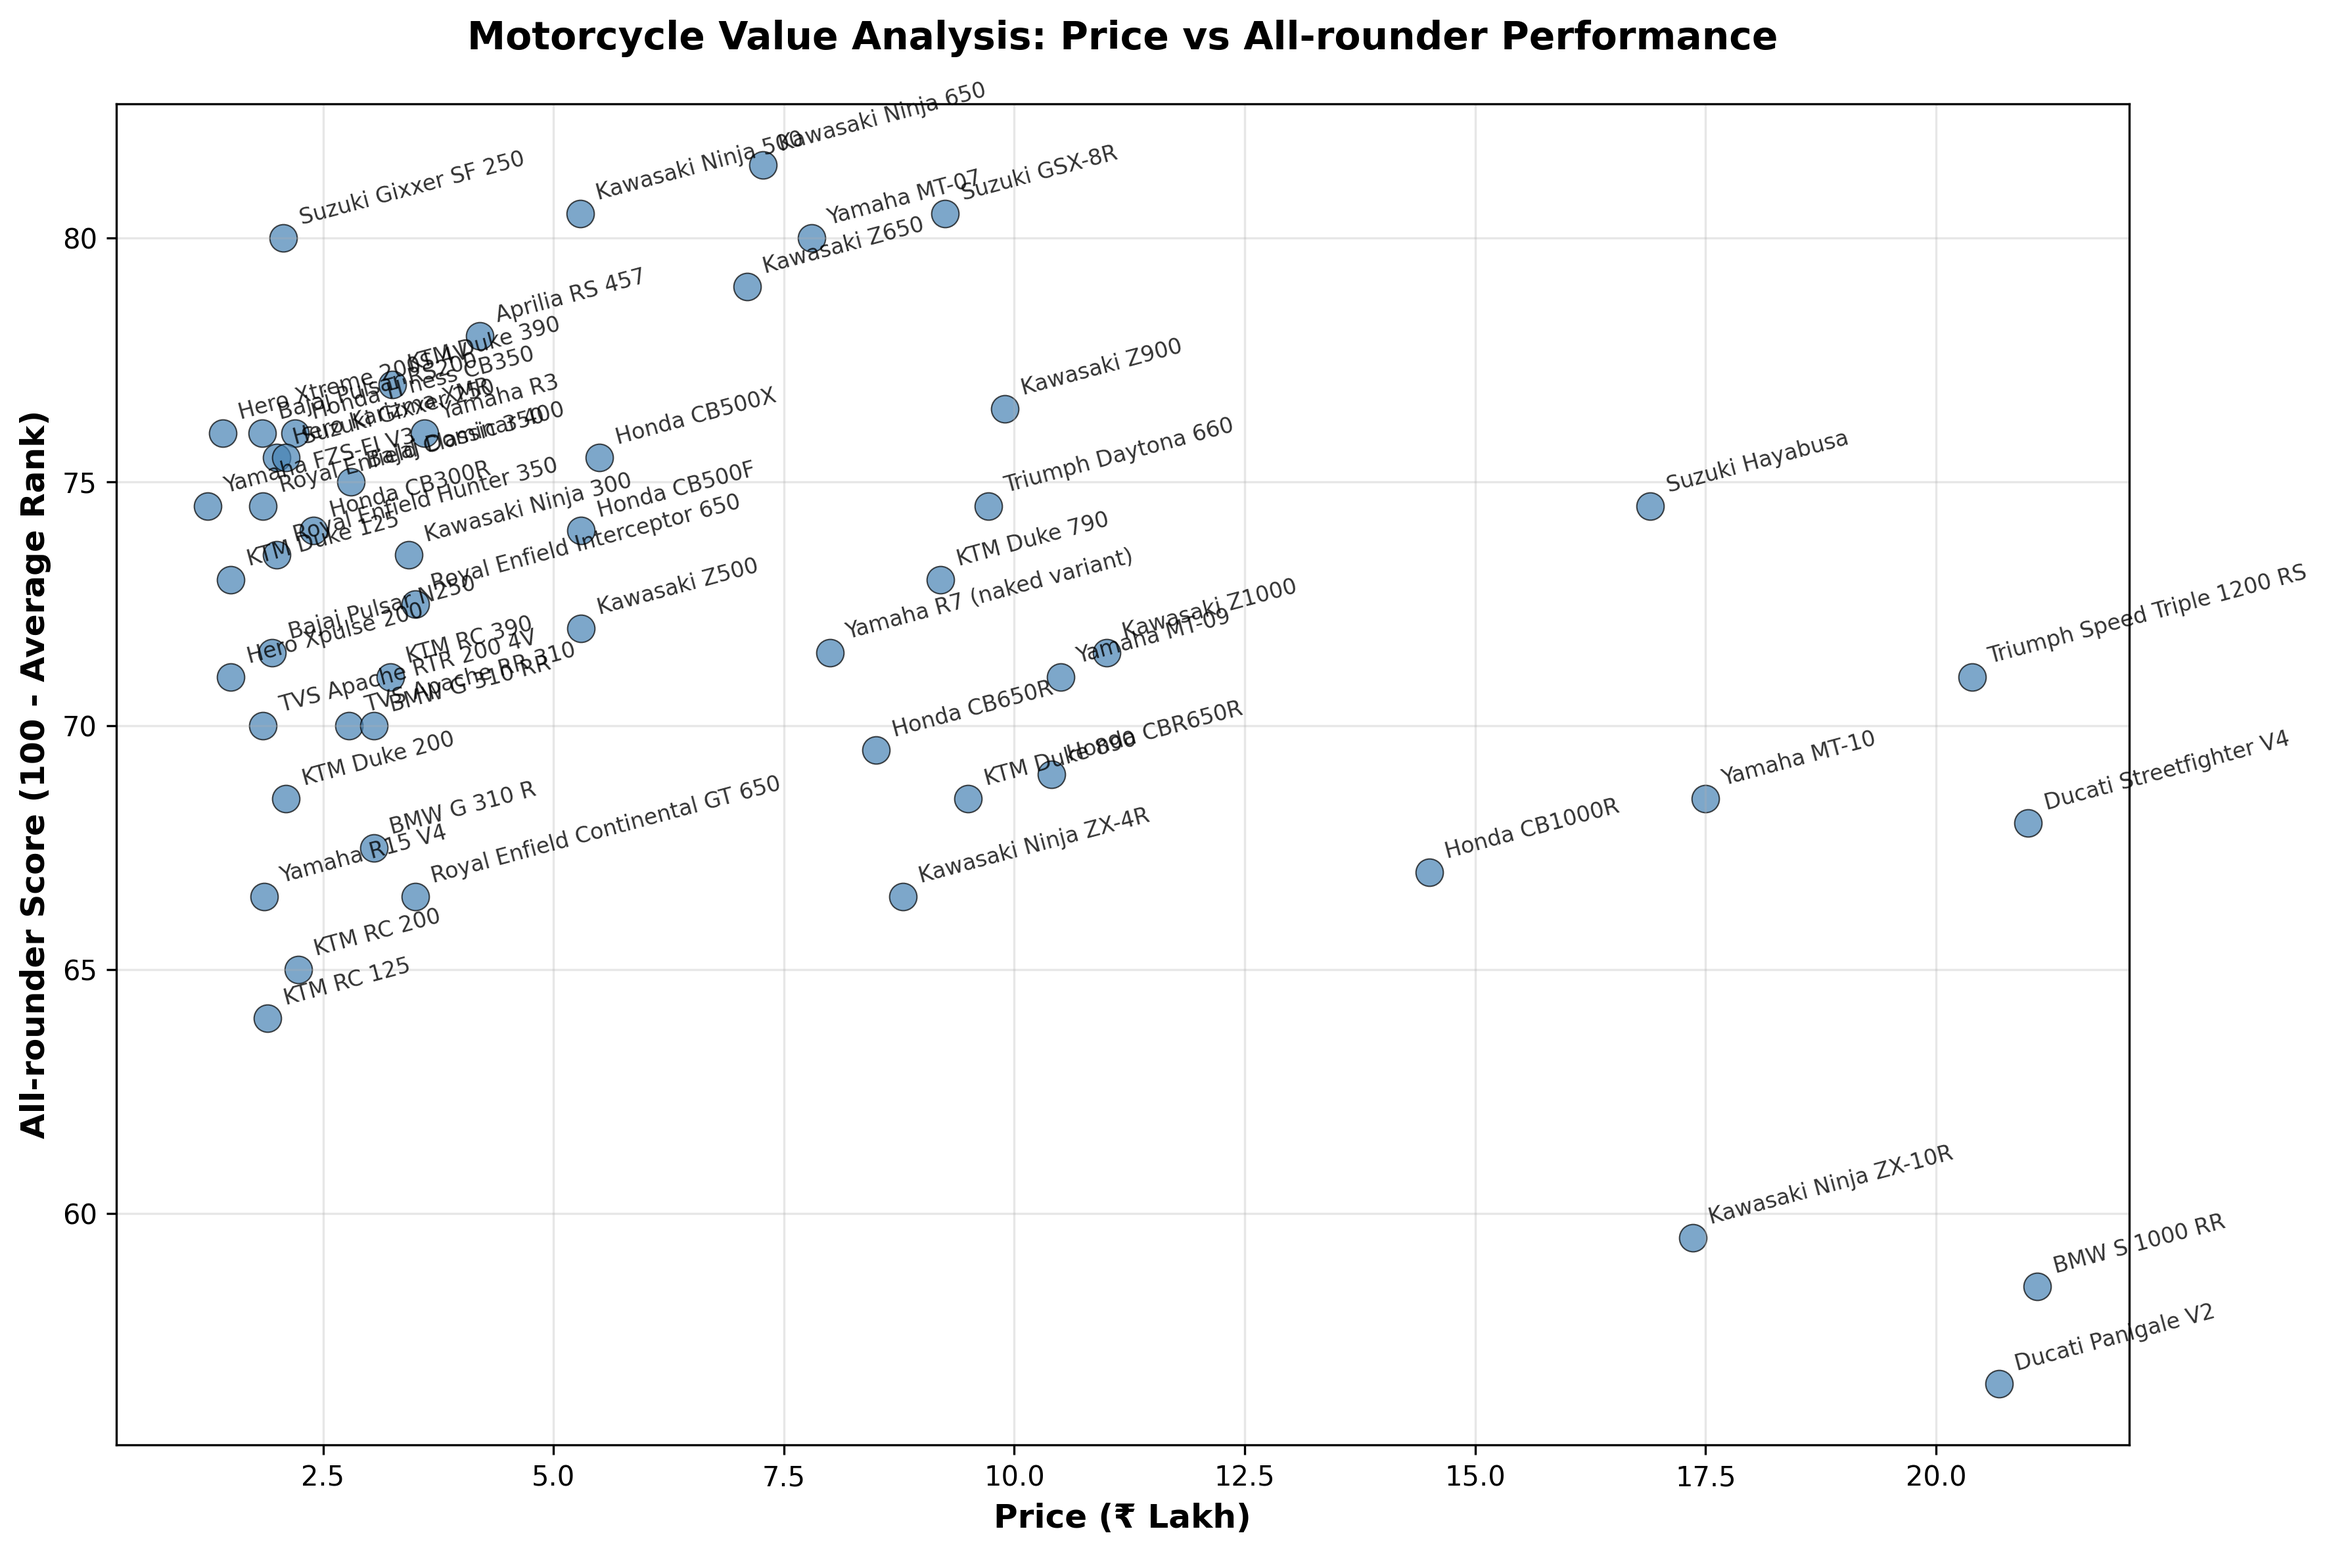
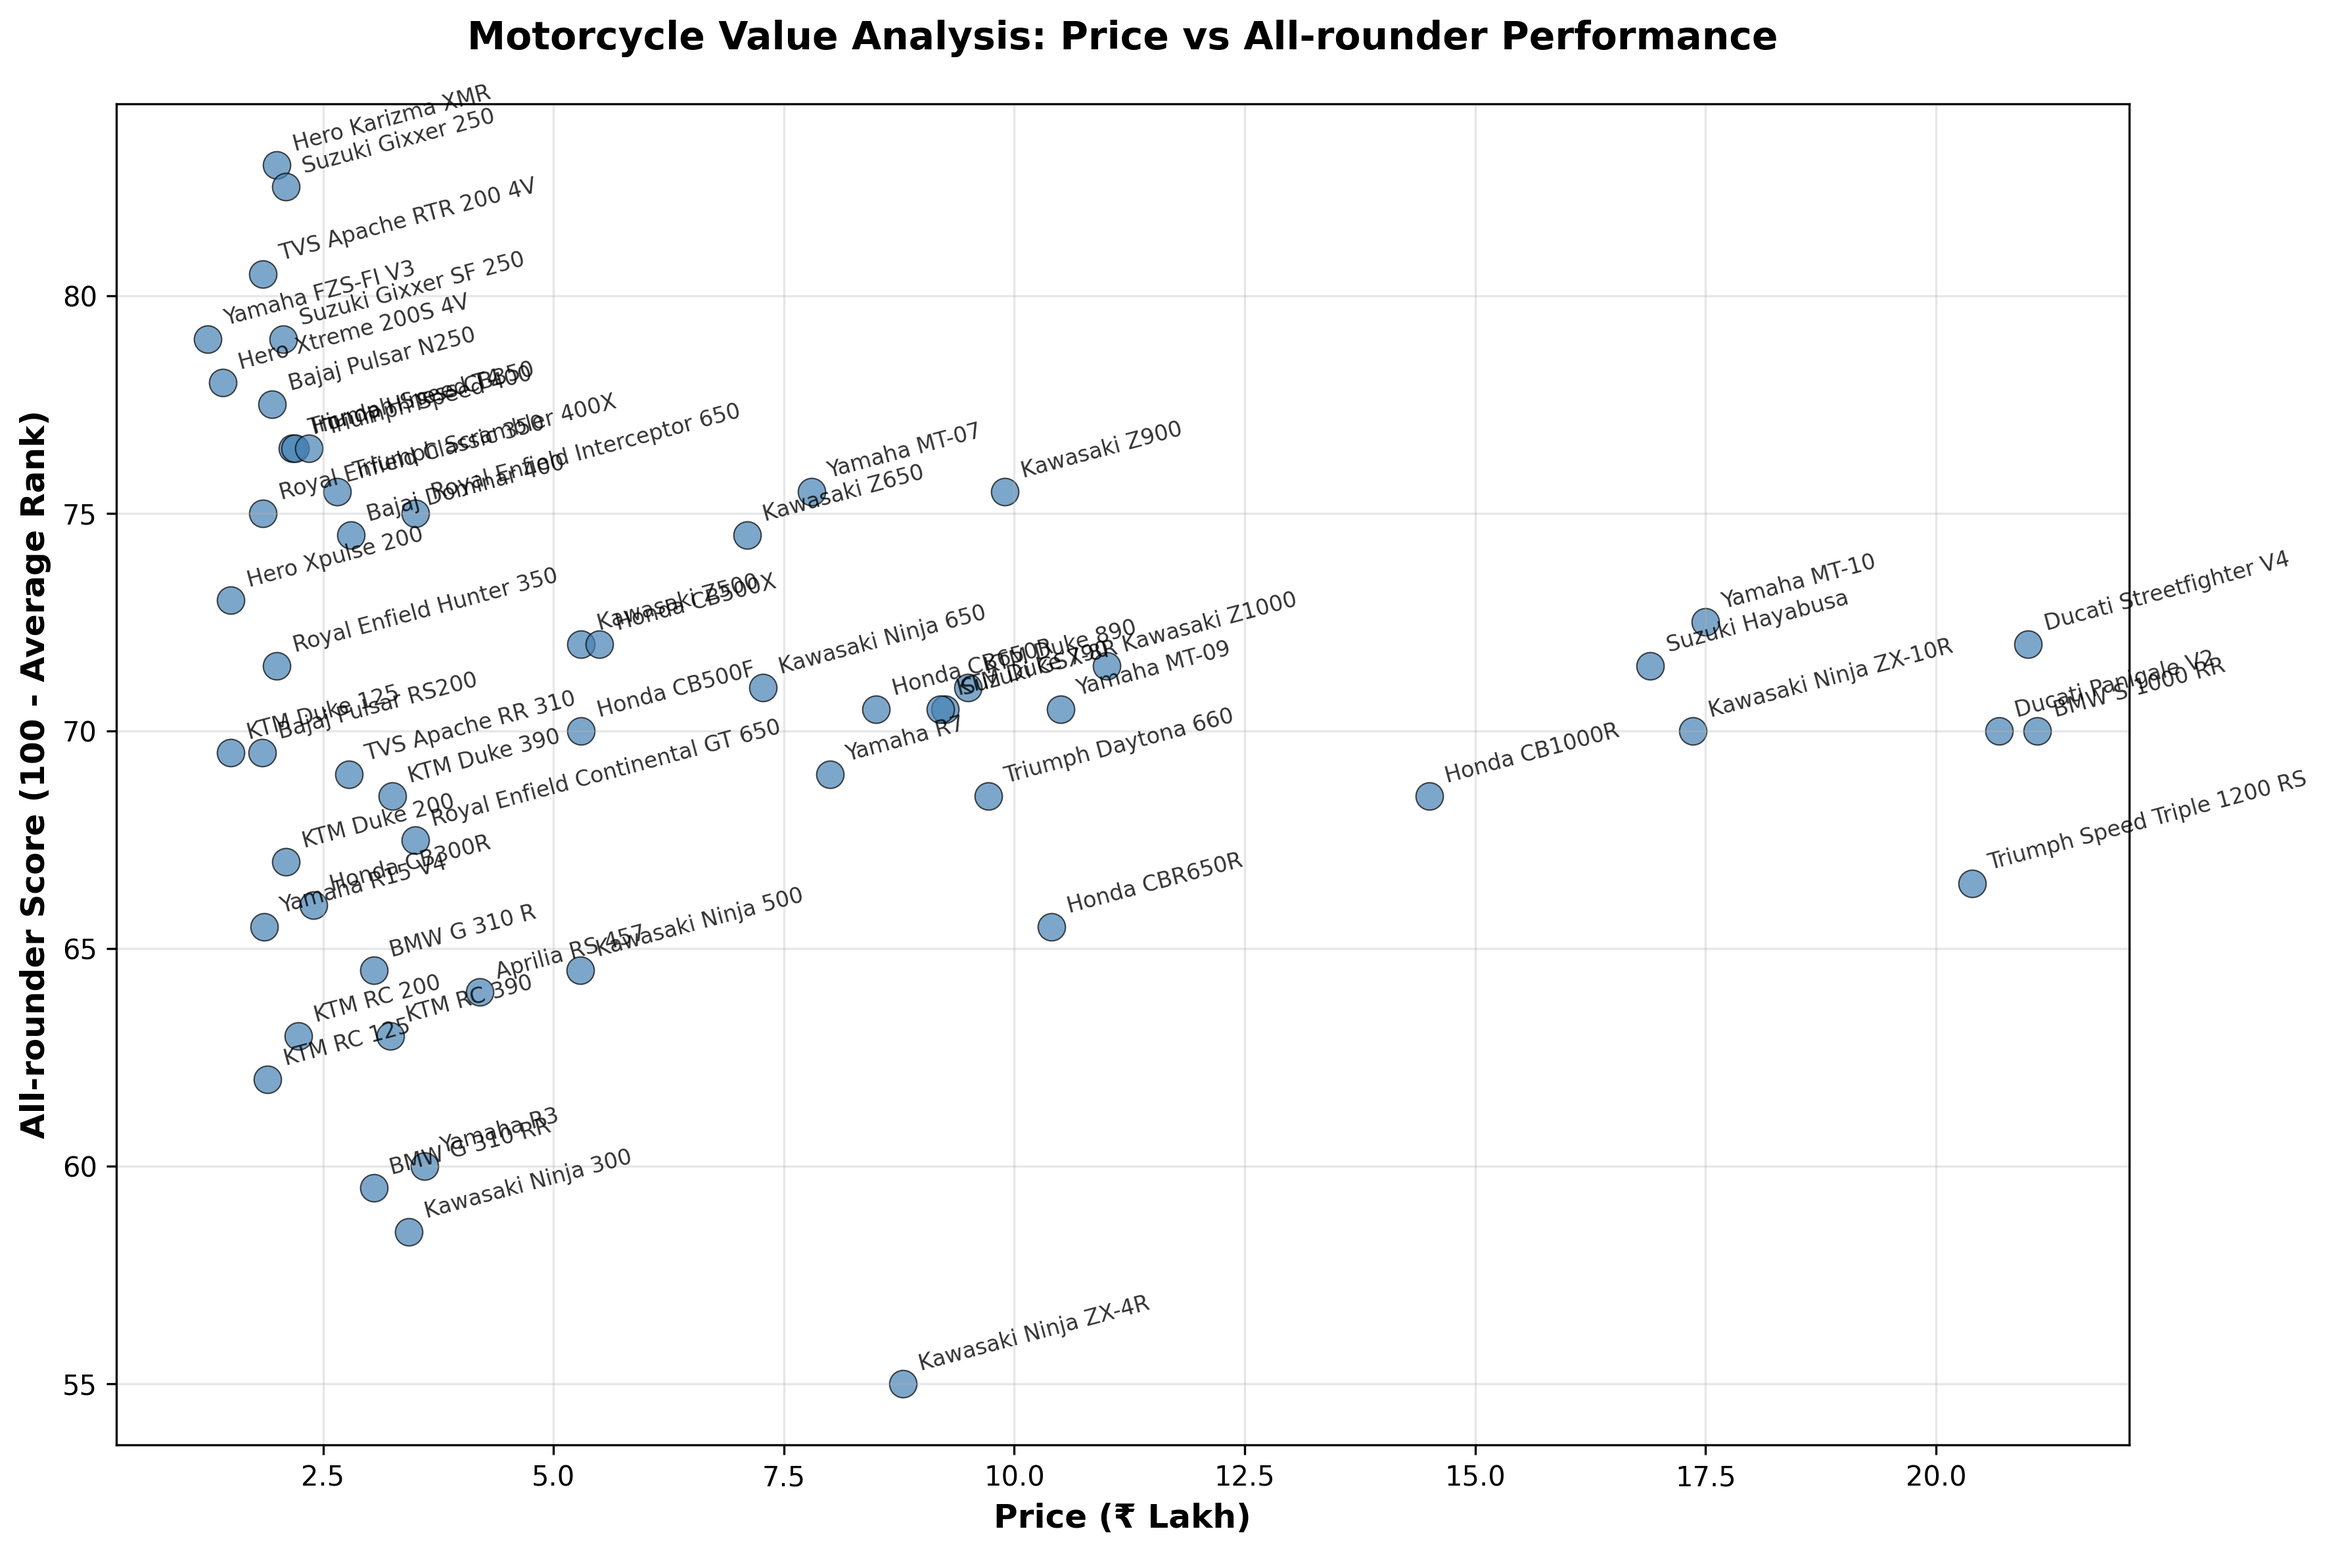
auto updated ⚡

diff --git a/main.py b/main.py
@@ -2,137 +2,137 @@ import pandas as pd
 import numpy as np
 import matplotlib.pyplot as plt
 
-# Re-evaluated bike scores (rider + pillion POV)
-# File: bike_scores_eval.py
-
 bikes = [
-    ("Hero Xtreme 200S 4V", 1.41, "Entry-level 150–200cc"),
-    ("Bajaj Pulsar RS200", 1.84, "Entry-level 150–200cc"),
-    ("Yamaha R15 V4", 1.86, "Entry-level 150–200cc"),
-    ("Suzuki Gixxer SF 250", 2.07, "200-250cc Single"),
-    ("Hero Karizma XMR", 2.00, "200-250cc Single"),
-    ("TVS Apache RR 310", 2.78, "300-400cc Single"),
-    ("BMW G 310 RR", 3.05, "300-400cc Single"),
-    ("KTM RC 125", 1.90, "Entry-level 150–200cc"),
-    ("KTM RC 200", 2.23, "Entry-level 150–200cc"),
-    ("KTM RC 390", 3.23, "300-400cc Single"),
-    ("Kawasaki Ninja 300", 3.43, "300–500cc twins"),
-    ("Yamaha R3", 3.60, "300–500cc twins"),
-    ("Aprilia RS 457", 4.20, "300–500cc twins"),
-    ("Kawasaki Ninja 500", 5.29, "300–500cc twins"),
-    ("Kawasaki Ninja 650", 7.27, "Mid-weight"),
-    ("Kawasaki Ninja ZX-4R", 8.79, "Mid-weight"),
-    ("Suzuki GSX-8R", 9.25, "Mid-weight"),
-    ("Triumph Daytona 660", 9.72, "Mid-weight"),
-    ("Honda CBR650R", 10.40, "Mid-weight"),
-    ("Kawasaki Ninja ZX-10R", 17.36, "Superbikes"),
-    ("Suzuki Hayabusa", 16.90, "Superbikes"),
-    ("Triumph Speed Triple 1200 RS", 20.39, "Superbikes"),
-    ("Ducati Panigale V2", 20.68, "Superbikes"),
-    ("BMW S 1000 RR", 21.10, "Superbikes"),
-    # non faired
-    ("KTM Duke 125", 1.50, "Entry-level 125–200cc"),
-    ("KTM Duke 200", 2.10, "Entry-level 125–200cc"),
-    ("TVS Apache RTR 200 4V", 1.85, "Entry-level 150–200cc"),
-    ("Hero Xpulse 200", 1.50, "Entry-level 150–200cc"),
-    ("Bajaj Pulsar N250", 1.95, "Entry-level 150–250cc"),
-    ("Yamaha FZS-FI V3", 1.25, "Entry-level 150–200cc"),
-    ("Suzuki Gixxer 250", 2.10, "200-250cc Single"),
-    ("Honda CB300R", 2.40, "300-400cc Single"),
-    ("KTM Duke 390", 3.25, "300–400cc Single"),
-    ("Bajaj Dominar 400", 2.80, "300–400cc Single"),
-    ("BMW G 310 R", 3.05, "300-400cc Single"),
-    ("Kawasaki Z500", 5.30, "300–500cc Twins"),
-    ("Royal Enfield Interceptor 650", 3.50, "300–500cc Twins"),
-    ("Royal Enfield Continental GT 650", 3.50, "300–500cc Twins"),
-    ("Honda CB500F", 5.30, "300–500cc Twins"),
-    ("Honda CB500X", 5.50, "300–500cc Twins"),
-    ("Honda H'ness CB350", 2.20, "300-400cc Single"),
-    ("Royal Enfield Hunter 350", 2.00, "300-400cc Single"),
-    ("Royal Enfield Classic 350", 1.85, "300-400cc Single"),
-    ("Kawasaki Z650", 7.10, "Mid-weight 600–800cc"),
-    ("Honda CB650R", 8.50, "Mid-weight 600–800cc"),
-    ("Yamaha MT-07", 7.80, "Mid-weight 600–800cc"),
-    ("Yamaha R7 (naked variant)", 8.00, "Mid-weight 600–800cc"),
-    ("KTM Duke 790", 9.20, "Mid-weight 600–800cc"),
-    ("KTM Duke 890", 9.50, "Mid-weight 600–800cc"),
-    ("Kawasaki Z900", 9.90, "Superbikes 900cc+"),
-    ("Kawasaki Z1000", 11.00, "Superbikes 900cc+"),
-    ("Yamaha MT-09", 10.50, "Superbikes 900cc+"),
-    ("Yamaha MT-10", 17.50, "Superbikes 900cc+"),
-    ("Honda CB1000R", 14.50, "Superbikes 900cc+"),
-    ("Ducati Streetfighter V4", 21.00, "Superbikes 900cc+"),
+    # 125-200cc Segment
+    ("Yamaha FZS-FI V3", 1.25, "125-200cc"),
+    ("Hero Xtreme 200S 4V", 1.41, "125-200cc"),
+    ("Hero Xpulse 200", 1.50, "125-200cc"),
+    ("KTM Duke 125", 1.50, "125-200cc"),
+    ("Bajaj Pulsar RS200", 1.84, "125-200cc"),
+    ("TVS Apache RTR 200 4V", 1.85, "125-200cc"),
+    ("Yamaha R15 V4", 1.86, "125-200cc"),
+    ("KTM RC 125", 1.90, "125-200cc"),
+    ("KTM Duke 200", 2.10, "125-200cc"),
+    ("KTM RC 200", 2.23, "125-200cc"),
+    # 201-400cc Segment
+    ("Royal Enfield Classic 350", 1.85, "201-400cc"),
+    ("Bajaj Pulsar N250", 1.95, "201-400cc"),
+    ("Hero Karizma XMR", 2.00, "201-400cc"),
+    ("Royal Enfield Hunter 350", 2.00, "201-400cc"),
+    ("Suzuki Gixxer SF 250", 2.07, "201-400cc"),
+    ("Suzuki Gixxer 250", 2.10, "201-400cc"),
+    ("Honda H'ness CB350", 2.20, "201-400cc"),
+    ("Honda CB300R", 2.40, "201-400cc"),
+    ("TVS Apache RR 310", 2.78, "201-400cc"),
+    ("Bajaj Dominar 400", 2.80, "201-400cc"),
+    ("BMW G 310 RR", 3.05, "201-400cc"),
+    ("BMW G 310 R", 3.05, "201-400cc"),
+    ("KTM RC 390", 3.23, "201-400cc"),
+    ("KTM Duke 390", 3.25, "201-400cc"),
+    ("Kawasaki Ninja 300", 3.43, "201-400cc"),
+    ("Yamaha R3", 3.60, "201-400cc"),
+    ("Triumph Speed T4", 2.17, "201-400cc"),
+    ("Triumph Speed 400", 2.35, "201-400cc"),
+    ("Triumph Scrambler 400X", 2.65, "201-400cc"),
+    ("Kawasaki Ninja ZX-4R", 8.79, "201-400cc"),
+    # 401-600cc Segment
+    ("Aprilia RS 457", 4.20, "401-600cc"),
+    ("Kawasaki Ninja 500", 5.29, "401-600cc"),
+    ("Honda CB500F", 5.30, "401-600cc"),
+    ("Kawasaki Z500", 5.30, "401-600cc"),
+    ("Honda CB500X", 5.50, "401-600cc"),
+    # 601-800cc Segment
+    ("Royal Enfield Interceptor 650", 3.50, "601-800cc"),
+    ("Royal Enfield Continental GT 650", 3.50, "601-800cc"),
+    ("Kawasaki Z650", 7.10, "601-800cc"),
+    ("Kawasaki Ninja 650", 7.27, "601-800cc"),
+    ("Yamaha MT-07", 7.80, "601-800cc"),
+    ("Yamaha R7", 8.00, "601-800cc"),
+    ("Honda CB650R", 8.50, "601-800cc"),
+    ("KTM Duke 790", 9.20, "601-800cc"),
+    ("Suzuki GSX-8R", 9.25, "601-800cc"),
+    ("KTM Duke 890", 9.50, "601-800cc"),
+    ("Triumph Daytona 660", 9.72, "601-800cc"),
+    ("Honda CBR650R", 10.40, "601-800cc"),
+    # 800cc+ Superbikes
+    ("Kawasaki Z900", 9.90, "800cc+"),
+    ("Yamaha MT-09", 10.50, "800cc+"),
+    ("Kawasaki Z1000", 11.00, "800cc+"),
+    ("Honda CB1000R", 14.50, "800cc+"),
+    ("Suzuki Hayabusa", 16.90, "800cc+"),
+    ("Kawasaki Ninja ZX-10R", 17.36, "800cc+"),
+    ("Yamaha MT-10", 17.50, "800cc+"),
+    ("Triumph Speed Triple 1200 RS", 20.39, "800cc+"),
+    ("Ducati Panigale V2", 20.68, "800cc+"),
+    ("Ducati Streetfighter V4", 21.00, "800cc+"),
+    ("BMW S 1000 RR", 21.10, "800cc+"),
 ]
 
 # Re-evaluated scores (rider + pillion POV). All values on 1-10 scale.
 scores = {
-    "Hero Xtreme 200S 4V": [4.5, 7.0, 8.0, 5.5, 6.5, 4.0],
-    "Bajaj Pulsar RS200": [5.5, 6.5, 7.5, 6.5, 5.5, 5.0],
-    "Yamaha R15 V4": [4.0, 6.0, 8.0, 5.5, 4.0, 3.5],
-
-    "Suzuki Gixxer SF 250": [6.0, 7.0, 7.0, 6.5, 6.5, 6.0],
-    "Hero Karizma XMR": [5.5, 7.0, 6.5, 6.5, 6.0, 6.0],
-
-    "TVS Apache RR 310": [6.5, 6.0, 6.5, 7.0, 5.5, 6.0],
-    "BMW G 310 RR": [6.0, 6.5, 6.5, 6.5, 6.0, 6.0],
-
-    "KTM RC 125": [3.5, 5.5, 7.0, 5.0, 5.0, 3.0],
-    "KTM RC 200": [5.0, 5.5, 7.0, 6.0, 5.0, 4.5],
-    "KTM RC 390": [7.5, 5.5, 6.5, 7.5, 4.5, 6.5],
-
-    "Kawasaki Ninja 300": [6.5, 7.0, 7.0, 7.0, 6.0, 6.5],
-    "Yamaha R3": [7.0, 7.0, 7.0, 7.5, 6.0, 7.5],
-    "Aprilia RS 457": [8.0, 7.0, 6.5, 8.0, 5.5, 8.0],
-    "Kawasaki Ninja 500": [7.5, 7.5, 7.5, 7.5, 6.5, 7.5],
-
-    "Kawasaki Ninja 650": [8.0, 8.0, 7.5, 8.5, 7.0, 7.5],
-    "Kawasaki Ninja ZX-4R": [8.5, 4.5, 6.0, 8.5, 4.5, 9.0],
-    "Suzuki GSX-8R": [8.5, 8.0, 7.5, 8.5, 7.5, 8.5],
-    "Triumph Daytona 660": [8.5, 6.0, 6.5, 8.5, 6.0, 8.5],
-    "Honda CBR650R": [8.0, 7.0, 6.5, 8.0, 6.0, 7.5],
-
-    "Kawasaki Ninja ZX-10R": [9.5, 4.0, 5.0, 9.0, 3.5, 8.5],
-    "Suzuki Hayabusa": [9.0, 7.5, 6.5, 9.5, 6.5, 8.0],
-    "Triumph Speed Triple 1200 RS": [9.0, 6.5, 6.0, 9.0, 5.5, 8.5],
-    "Ducati Panigale V2": [9.0, 4.0, 5.5, 9.0, 3.5, 8.5],
-    "BMW S 1000 RR": [9.5, 4.0, 5.0, 9.5, 3.5, 8.5],
-
-    # Non-faired / naked
-    "KTM Duke 125": [4.5, 7.0, 7.5, 5.5, 3.5, 5.0],
-    "KTM Duke 200": [5.5, 6.5, 7.0, 6.0, 3.5, 6.0],
-    "TVS Apache RTR 200 4V": [5.0, 6.5, 6.5, 6.0, 4.0, 5.5],
-    "Hero Xpulse 200": [4.0, 7.5, 6.5, 5.5, 3.0, 4.5],
-    "Bajaj Pulsar N250": [5.5, 7.0, 7.0, 6.0, 4.5, 5.5],
-    "Yamaha FZS-FI V3": [4.5, 6.5, 7.0, 5.5, 4.5, 5.0],
-
-    "Suzuki Gixxer 250": [6.0, 7.0, 7.0, 6.5, 5.0, 6.0],
-    "Honda CB300R": [6.5, 7.0, 7.0, 6.5, 4.5, 6.0],
-    "KTM Duke 390": [8.0, 6.5, 6.5, 7.5, 4.5, 8.0],
-    "Bajaj Dominar 400": [7.0, 7.0, 6.5, 7.0, 5.0, 7.0],
-    "BMW G 310 R": [6.0, 7.0, 6.5, 6.5, 4.5, 6.0],
-
-    "Kawasaki Z500": [7.5, 7.0, 7.0, 7.5, 5.5, 7.5],
-    "Royal Enfield Interceptor 650": [6.5, 7.5, 6.0, 7.0, 6.5, 6.5],
-    "Royal Enfield Continental GT 650": [6.0, 7.0, 6.0, 6.5, 6.0, 6.0],
-    "Honda CB500F": [7.5, 7.5, 6.5, 7.5, 6.0, 7.5],
-    "Honda CB500X": [7.0, 8.0, 7.0, 7.5, 6.5, 7.0],
-    "Honda H'ness CB350": [6.0, 7.5, 6.5, 6.5, 5.5, 6.0],
-    "Royal Enfield Hunter 350": [5.5, 7.0, 6.5, 6.0, 6.0, 5.5],
-    "Royal Enfield Classic 350": [5.5, 6.5, 6.0, 6.0, 6.5, 5.5],
-
-    "Kawasaki Z650": [8.0, 7.5, 7.0, 8.0, 6.0, 8.0],
-    "Honda CB650R": [7.5, 7.5, 7.0, 7.5, 5.5, 7.5],
-    "Yamaha MT-07": [8.5, 7.5, 7.0, 8.0, 6.0, 8.5],
-    "Yamaha R7 (naked variant)": [8.0, 7.0, 7.0, 7.5, 5.0, 8.0],
-    "KTM Duke 790": [8.5, 7.0, 6.5, 8.0, 4.5, 8.5],
-    "KTM Duke 890": [8.5, 7.0, 6.5, 8.0, 4.5, 8.5],
-
-    "Kawasaki Z900": [9.0, 7.5, 6.5, 8.5, 4.5, 9.0],
-    "Kawasaki Z1000": [9.0, 7.0, 6.0, 8.5, 4.0, 9.0],
-    "Yamaha MT-09": [9.0, 7.0, 6.0, 8.5, 4.0, 9.0],
-    "Yamaha MT-10": [9.5, 6.5, 5.5, 9.0, 4.0, 9.0],
-    "Honda CB1000R": [9.0, 7.0, 6.0, 8.5, 4.0, 8.5],
-    "Ducati Streetfighter V4": [9.5, 6.0, 5.5, 9.5, 3.5, 9.5],
+    # 125-200cc Segment
+    "Yamaha FZS-FI V3": [3.5, 6.5, 6.8, 4.0, 5.8, 4.0],
+    "Hero Xtreme 200S 4V": [4.0, 6.2, 6.5, 4.2, 5.5, 4.2],
+    "Hero Xpulse 200": [3.8, 5.5, 6.9, 4.0, 5.0, 3.8],
+    "KTM Duke 125": [3.6, 4.5, 7.0, 4.0, 4.2, 3.5],
+    "Bajaj Pulsar RS200": [4.2, 5.0, 6.3, 4.3, 4.8, 4.2],
+    "TVS Apache RTR 200 4V": [4.3, 6.0, 6.5, 4.5, 5.5, 4.5],
+    "Yamaha R15 V4": [4.0, 4.2, 6.0, 4.6, 4.0, 4.2],
+    "KTM RC 125": [3.7, 3.8, 5.7, 4.2, 3.8, 3.7],
+    "KTM Duke 200": [4.5, 5.0, 6.3, 4.4, 4.3, 4.5],
+    "KTM RC 200": [4.6, 4.3, 6.0, 4.5, 4.0, 4.6],
+    # 201-400cc Segment
+    "Royal Enfield Classic 350": [4.0, 6.2, 5.0, 4.8, 6.5, 4.0],
+    "Bajaj Pulsar N250": [4.5, 6.0, 6.0, 5.0, 5.0, 4.5],
+    "Hero Karizma XMR": [4.7, 6.3, 5.5, 5.3, 6.0, 4.7],
+    "Royal Enfield Hunter 350": [4.2, 6.0, 5.0, 4.8, 5.8, 4.2],
+    "Suzuki Gixxer SF 250": [5.2, 5.0, 6.0, 5.5, 4.8, 5.2],
+    "Suzuki Gixxer 250": [5.0, 6.0, 5.8, 5.4, 5.5, 5.0],
+    "Honda H'ness CB350": [4.5, 6.5, 5.0, 5.2, 5.8, 4.5],
+    "Honda CB300R": [4.6, 5.5, 5.8, 5.0, 4.0, 4.6],
+    "TVS Apache RR 310": [5.2, 5.0, 5.5, 5.8, 4.2, 5.2],
+    "Bajaj Dominar 400": [5.0, 6.2, 5.2, 5.7, 5.0, 5.0],
+    "BMW G 310 RR": [4.8, 4.5, 5.0, 5.2, 4.0, 4.8],
+    "BMW G 310 R": [4.9, 5.0, 5.2, 5.3, 4.2, 4.9],
+    "KTM RC 390": [5.6, 4.0, 4.8, 6.0, 3.5, 5.6],
+    "KTM Duke 390": [5.4, 5.0, 5.0, 6.2, 4.0, 5.4],
+    "Kawasaki Ninja 300": [5.0, 4.5, 4.8, 5.5, 3.8, 5.0],
+    "Yamaha R3": [5.2, 4.5, 4.5, 5.8, 4.0, 5.2],
+    "Triumph Speed T4": [4.7, 6.0, 5.0, 5.5, 5.5, 4.7],
+    "Triumph Speed 400": [4.8, 6.0, 5.2, 5.6, 5.5, 4.8],
+    "Triumph Scrambler 400X": [5.0, 6.2, 5.0, 5.8, 5.5, 5.0],
+    "Kawasaki Ninja ZX-4R": [5.8, 4.0, 4.5, 6.5, 4.0, 5.8],
+    "Aprilia RS 457": [5.7, 4.5, 4.5, 6.2, 4.2, 5.7],
+    # 401-600cc Segment
+    "Kawasaki Ninja 500": [5.5, 5.0, 4.8, 6.0, 4.5, 5.5],
+    "Honda CB500F": [5.2, 6.0, 5.0, 5.8, 5.5, 5.2],
+    "Kawasaki Z500": [5.4, 6.0, 5.0, 6.0, 5.2, 5.4],
+    "Honda CB500X": [5.0, 6.5, 4.8, 6.2, 5.8, 5.0],
+    # 601-800cc Segment
+    "Royal Enfield Interceptor 650": [5.2, 6.2, 4.8, 6.0, 5.5, 5.2],
+    "Royal Enfield Continental GT 650": [5.0, 5.8, 4.5, 5.8, 5.0, 5.0],
+    "Kawasaki Z650": [5.8, 6.5, 5.0, 6.2, 5.8, 5.8],
+    "Kawasaki Ninja 650": [5.7, 5.8, 4.8, 6.0, 5.5, 5.7],
+    "Yamaha MT-07": [6.0, 6.2, 5.0, 6.5, 6.0, 6.0],
+    "Yamaha R7": [5.7, 5.5, 4.8, 6.0, 5.5, 5.7],
+    "Honda CB650R": [5.5, 6.0, 4.8, 6.0, 5.8, 5.5],
+    "KTM Duke 790": [6.2, 5.5, 4.8, 6.5, 5.2, 6.0],
+    "Suzuki GSX-8R": [5.8, 6.0, 4.8, 6.2, 5.8, 5.8],
+    "KTM Duke 890": [6.2, 5.8, 5.0, 6.5, 5.5, 6.2],
+    "Triumph Daytona 660": [6.0, 5.5, 4.8, 6.2, 5.5, 6.0],
+    "Honda CBR650R": [5.7, 5.8, 4.8, 6.0, 5.5, 5.7],
+    # 800cc+ Superbikes
+    "Kawasaki Z900": [7.0, 6.2, 4.5, 7.0, 6.0, 7.0],
+    "Yamaha MT-09": [6.8, 5.5, 4.2, 6.8, 5.5, 6.8],
+    "Kawasaki Z1000": [6.9, 5.8, 4.5, 7.0, 5.8, 6.9],
+    "Honda CB1000R": [6.5, 6.0, 4.2, 6.8, 5.2, 6.5],
+    "Suzuki Hayabusa": [7.0, 6.5, 4.5, 7.5, 6.5, 7.0],
+    "Kawasaki Ninja ZX-10R": [8.0, 5.0, 4.5, 8.0, 5.0, 8.3],
+    "Yamaha MT-10": [7.8, 6.2, 4.5, 7.8, 6.0, 7.8],
+    "Triumph Speed Triple 1200 RS": [7.2, 5.5, 4.2, 7.2, 5.5, 7.2],
+    "Ducati Panigale V2": [8.2, 5.0, 4.2, 7.8, 5.2, 8.6],
+    "Ducati Streetfighter V4": [9.0, 5.5, 4.5, 9.0, 5.5, 10.0],
+    "BMW S 1000 RR": [8.0, 5.2, 4.2, 8.5, 5.0, 8.5],
 }
 
 metrics = [
